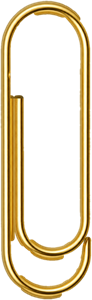
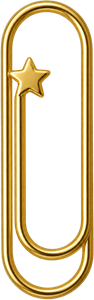
Pin: the clip is the user's finished picture, shown as drawn with its own star (takes the card star's place); only shadows added

diff --git a/src/components/task-card/PinStar.tsx b/src/components/task-card/PinStar.tsx
@@ -52,19 +52,20 @@ const StarMark: React.FC = () => (
   </svg>
 );
 
-// The clip is a picture (a gold paper clip, cut out of its background; the
-// star it came with was taken off, ours is drawn in code at the wire's end).
-// It is 92 x 300 in the file; in the 40 x 90 drawing it is shown CLIP_HEIGHT
-// tall, and placed so that the end of its inner wire (at 20% of its width and
-// 31.7% of its height) is exactly under the star.
-const CLIP_HEIGHT = 70;
-const CLIP_WIDTH = (CLIP_HEIGHT * 92) / 300;
-const CLIP_X = STAR_X - 0.2 * CLIP_WIDTH;
-const CLIP_Y = STAR_Y - 0.317 * CLIP_HEIGHT;
+// The clip is the finished picture (src/assets/clip.png), shown as it was
+// drawn, with its own star. It is 94 x 300 in the file; its star's centre lies
+// at 30.9% of its width and 25.8% of its height. In the 40 x 90 drawing it is
+// shown CLIP_HEIGHT tall and placed so that its star stands exactly where the
+// card's own star stood: the clip simply takes the star's place.
+const CLIP_HEIGHT = 78;
+const CLIP_WIDTH = (CLIP_HEIGHT * 94) / 300;
+const CLIP_X = STAR_X - 0.309 * CLIP_WIDTH;
+const CLIP_Y = STAR_Y - 0.258 * CLIP_HEIGHT;
 
 /**
- * A gold paper clip over the top edge of the card; its free end carries the
- * star the card was marked with, at the very place where it was pressed.
+ * The gold paper clip over the top edge of the card, with the star that is
+ * drawn on it. Only a soft and a tight shadow are added, so that it lies on
+ * the paper.
  */
 const ClipMark: React.FC = () => (
   <svg
@@ -75,37 +76,23 @@ const ClipMark: React.FC = () => (
     className="absolute left-0 top-0"
     style={{ overflow: 'visible' }}
   >
-    <defs>
-      <linearGradient id="star-gold" x1="0" y1="0" x2="1" y2="1">
-        <stop offset="0" stopColor="#FFF3BD" />
-        <stop offset="0.5" stopColor="#F2C54E" />
-        <stop offset="1" stopColor="#B07C1C" />
-      </linearGradient>
-    </defs>
-
     {/* What the clip casts onto the paper: a soft one a little to the lower
         right, and a tight one under the wire that holds it to the card. */}
     <image
       href={clipImage}
-      x={CLIP_X + 1.6}
-      y={CLIP_Y + 2.4}
+      x={CLIP_X + 1.8}
+      y={CLIP_Y + 2.6}
       width={CLIP_WIDTH}
       height={CLIP_HEIGHT}
-      style={{
-        filter: 'brightness(0) blur(1.6px)',
-        opacity: 0.26,
-      }}
+      style={{ filter: 'brightness(0) blur(1.7px)', opacity: 0.26 }}
     />
     <image
       href={clipImage}
-      x={CLIP_X + 0.5}
-      y={CLIP_Y + 0.9}
+      x={CLIP_X + 0.6}
+      y={CLIP_Y + 1}
       width={CLIP_WIDTH}
       height={CLIP_HEIGHT}
-      style={{
-        filter: 'brightness(0) blur(0.5px)',
-        opacity: 0.34,
-      }}
+      style={{ filter: 'brightness(0) blur(0.5px)', opacity: 0.34 }}
     />
     <image
       href={clipImage}
@@ -113,25 +100,6 @@ const ClipMark: React.FC = () => (
       y={CLIP_Y}
       width={CLIP_WIDTH}
       height={CLIP_HEIGHT}
-    />
-
-    {/* the star at the end of the wire, with its own shadow */}
-    <polygon
-      points={STAR_POINTS}
-      transform="translate(1.4 2)"
-      fill="rgba(30,20,10,0.3)"
-      style={{ filter: 'blur(1.1px)' }}
-    />
-    <polygon
-      points={STAR_POINTS}
-      fill="url(#star-gold)"
-      stroke="rgba(110,76,14,0.9)"
-      strokeWidth="1.1"
-      strokeLinejoin="round"
-    />
-    <polygon
-      points={`${STAR_X},${STAR_Y - 8.5} ${STAR_X + 2.3},${STAR_Y - 3.6} ${STAR_X + 5.6},${STAR_Y - 3.2} ${STAR_X + 2.6},${STAR_Y - 0.4}`}
-      fill="rgba(255,255,255,0.6)"
     />
   </svg>
 );
